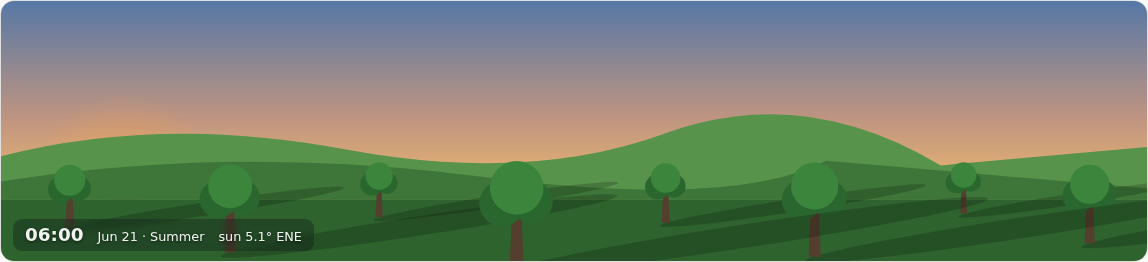
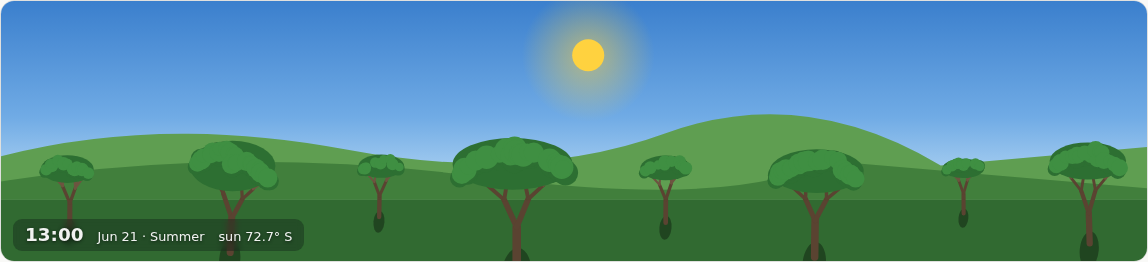
Grow the scenic trees from a recursive branch structure
The trees were a trunk with three canopy circles stuck on top. They now
grow from a recursive generator: a trunk forks into limbs, limbs into
twigs, each fork shorter and narrower than its parent, with a seeded PRNG
per tree so every tree has its own shape and keeps it across renders.

Two details keep the result reading as a tree rather than a shrub. Each
child branch angle is pulled back toward vertical, so successive forks do
not drift ever more horizontal. And foliage is a soft crown body with lit
and shaded blobs at the twig tips layered over it, so the canopy is one
mass with texture instead of scattered dots.

Winter gains the most: bare limbs now show real branch structure, with
snow settling along the outer twigs. Palms keep their own leaning stem
and crown of fronds, since palms do not fork.

Skeletons are geometry only, so they are built once per tree and cached
rather than regenerated on every frame. A full re-render of the panel
plus all three day charts measures ~10ms, so scrubbing the time slider
stays smooth.

Adds three tests for the generator (determinism, branch count by
distance, crowns taller than wide) for 37 total.

Claude-Session: https://claude.ai/code/session_01N37uwx9vE3AetuJg14AkaL

diff --git a/js/scene.js b/js/scene.js
@@ -98,6 +98,81 @@ const TREES = [
   { x: 0.95, ground: 228, scale: 0.98 },
 ].sort((a, b) => a.ground - b.ground);
 
+const SCENE_W = 1000;
+
+/** Small deterministic PRNG, so every tree keeps its shape across renders. */
+function mulberry32(seed) {
+  return function next() {
+    seed = (seed + 0x6d2b79f5) | 0;
+    let t = Math.imul(seed ^ (seed >>> 15), 1 | seed);
+    t = (t + Math.imul(t ^ (t >>> 7), 61 | t)) ^ t;
+    return ((t ^ (t >>> 14)) >>> 0) / 4294967296;
+  };
+}
+
+/**
+ * Grow a branch and its children recursively. Angles are degrees from
+ * vertical; each fork narrows and shortens, which is what makes the
+ * silhouette read as a tree rather than a stick.
+ */
+function grow(x, y, angle, len, width, depth, rng, out) {
+  const rad = angle * RAD;
+  const x2 = x + Math.sin(rad) * len;
+  const y2 = y - Math.cos(rad) * len;
+  out.segments.push({ x1: x, y1: y, x2, y2, w: width, depth });
+  out.top = Math.min(out.top, y2);
+  out.left = Math.min(out.left, x2);
+  out.right = Math.max(out.right, x2);
+
+  if (depth <= 0) {
+    out.tips.push({ x: x2, y: y2 });
+    return;
+  }
+  // Two forks most of the way up, occasionally three near the crown.
+  const forks = depth <= 2 && rng() < 0.4 ? 3 : 2;
+  const spread = 16 + rng() * 11;
+  for (let i = 0; i < forks; i++) {
+    const offset = (i / (forks - 1) - 0.5) * 2;   // -1 .. 1
+    // The 0.78 pulls each child back toward vertical, so successive forks
+    // do not drift ever more horizontal and leave a flat, shrubby crown.
+    const childAngle = angle * 0.78 + offset * spread + (rng() - 0.5) * 9;
+    const childLen = len * (0.64 + rng() * 0.14);
+    grow(x2, y2, childAngle, childLen, width * 0.67, depth - 1, rng, out);
+  }
+}
+
+/**
+ * Branch geometry for one tree. Depends only on the tree's position and
+ * scale, never on season or time, so it is computed once and reused.
+ */
+export function buildTreeSkeleton(tree) {
+  const x = tree.x * SCENE_W;
+  const y = tree.ground;
+  const rng = mulberry32(Math.round(tree.x * 9973) + Math.round(tree.ground));
+  const out = { segments: [], tips: [], top: y, left: x, right: x };
+  const depth = tree.scale < 0.8 ? 3 : 4;
+  grow(x, y, (rng() - 0.5) * 5, 27 * tree.scale, Math.max(2.2, 5.6 * tree.scale), depth, rng, out);
+  const tx = out.tips.map((p) => p.x);
+  const ty = out.tips.map((p) => p.y);
+  const crown = {
+    cx: (Math.min(...tx) + Math.max(...tx)) / 2,
+    cy: (Math.min(...ty) + Math.max(...ty)) / 2,
+    rx: (Math.max(...tx) - Math.min(...tx)) / 2,
+    ry: (Math.max(...ty) - Math.min(...ty)) / 2,
+  };
+  return { ...out, x, y, crown, height: y - out.top, halfWidth: (out.right - out.left) / 2 };
+}
+
+const SKELETONS = new WeakMap();
+function skeletonFor(tree) {
+  let sk = SKELETONS.get(tree);
+  if (!sk) {
+    sk = buildTreeSkeleton(tree);
+    SKELETONS.set(tree, sk);
+  }
+  return sk;
+}
+
 /**
  * Shadow cast by an object of `height` on level ground.
  *
@@ -127,13 +202,9 @@ export function shadowFor(elevationDeg, azimuthDeg, facing, height, maxLen = 7) 
 /** One tree, plus its cast shadow, as SVG markup. */
 function treeSVG(tree, W, season, landFactor, dayness, sun) {
   const t = SEASON_TREE[season];
-  const x = tree.x * W;
-  const y = tree.ground;
-  const h = 48 * tree.scale;                 // trunk height
-  const r = 19 * tree.scale;                 // canopy radius
-  const tw = Math.max(2.4, 4.6 * tree.scale);
-  const trunk = darken('#5a4331', landFactor);
-  const topY = y - h;
+  const sk = skeletonFor(tree);
+  const { x, y, height: h } = sk;
+  const scale = tree.scale;
 
   // Shadow first, so the tree sits on top of it.
   let shadow = '';
@@ -142,8 +213,8 @@ function treeSVG(tree, W, season, landFactor, dayness, sun) {
     const span = Math.hypot(sh.dx, sh.dy);
     const cx = x + sh.dx / 2;
     const cy = y + sh.dy / 2 + 2;
-    const rx = span / 2 + tw * 1.6;
-    const ry = Math.max(3.4, r * 0.4);
+    const rx = span / 2 + sk.halfWidth * 0.45;
+    const ry = Math.max(3.4, sk.halfWidth * 0.3);
     const ang = (Math.atan2(sh.dy, sh.dx) * DEG).toFixed(1);
     // Long, low-sun shadows are diffuse; midday shadows are tight and darker.
     const op = (0.34 * dayness * (1 - 0.4 * Math.min(1, span / (h * 5)))).toFixed(2);
@@ -151,59 +222,84 @@ function treeSVG(tree, W, season, landFactor, dayness, sun) {
       + ` transform="rotate(${ang} ${cx.toFixed(1)} ${cy.toFixed(1)})" fill="#000" opacity="${op}"/>`;
   }
 
-  const trunkMark = `<path d="M${(x - tw).toFixed(1)},${y} L${(x - tw * 0.55).toFixed(1)},${topY.toFixed(1)} `
-    + `L${(x + tw * 0.55).toFixed(1)},${topY.toFixed(1)} L${(x + tw).toFixed(1)},${y} Z" fill="${trunk}"/>`;
-
-  let crown = '';
   if (t.palm) {
+    // Palms do not fork, so they get a leaning stem and a crown of fronds.
+    const trunkCol = darken('#6b5238', landFactor);
     const frond = darken(t.canopy, landFactor);
     const shade = darken(t.shade, landFactor);
-    crown = [-1, 1].flatMap((dir) => [0.15, 0.55, 1.0].map((lift, i) => {
-      const ex = x + dir * r * (1.15 - lift * 0.25);
-      const ey = topY - lift * r * 0.75 + r * 0.28;
-      return `<path d="M${x.toFixed(1)},${topY.toFixed(1)} Q${(x + dir * r * 0.7).toFixed(1)},`
-        + `${(topY - r * 0.55 - lift * 6).toFixed(1)} ${ex.toFixed(1)},${ey.toFixed(1)}"`
-        + ` stroke="${i === 1 ? shade : frond}" stroke-width="${(3.4 * tree.scale).toFixed(1)}"`
-        + ` fill="none" stroke-linecap="round"/>`;
-    })).join('');
-  } else if (t.canopy) {
+    const topY = y - h * 0.92;
+    const lean = h * 0.1;
+    const stem = `<path d="M${(x - 3 * scale).toFixed(1)},${y} Q${(x - 1).toFixed(1)},`
+      + `${(y - h * 0.5).toFixed(1)} ${(x + lean).toFixed(1)},${topY.toFixed(1)}"`
+      + ` stroke="${trunkCol}" stroke-width="${(5 * scale).toFixed(1)}" fill="none" stroke-linecap="round"/>`;
+    const span = h * 0.5;
+    const fronds = [-1, -0.62, -0.26, 0.26, 0.62, 1].map((dir, i) => {
+      const tipX = x + lean + dir * span;
+      const tipY = topY + Math.abs(dir) * span * 0.5 + span * 0.12;
+      const ctlX = x + lean + dir * span * 0.5;
+      const ctlY = topY - span * 0.42;
+      return `<path d="M${(x + lean).toFixed(1)},${topY.toFixed(1)} Q${ctlX.toFixed(1)},${ctlY.toFixed(1)} `
+        + `${tipX.toFixed(1)},${tipY.toFixed(1)}" stroke="${i % 2 ? shade : frond}"`
+        + ` stroke-width="${(4 * scale).toFixed(1)}" fill="none" stroke-linecap="round"/>`;
+    }).join('');
+    return shadow + stem + fronds;
+  }
+
+  // Branches: thicker limbs darker, fine twigs a shade lighter.
+  const limb = darken('#5a4331', landFactor);
+  const twig = darken('#6d5540', landFactor);
+  const branches = sk.segments.map((sg) =>
+    `<line x1="${sg.x1.toFixed(1)}" y1="${sg.y1.toFixed(1)}" x2="${sg.x2.toFixed(1)}" y2="${sg.y2.toFixed(1)}"`
+    + ` stroke="${sg.depth >= 2 ? limb : twig}" stroke-width="${sg.w.toFixed(1)}" stroke-linecap="round"/>`
+  ).join('');
+
+  let crown = '';
+  let extra = '';
+  if (t.canopy) {
     const c = darken(t.canopy, landFactor);
     const sd = darken(t.shade, landFactor);
-    crown = `<circle cx="${(x - r * 0.5).toFixed(1)}" cy="${(topY + r * 0.3).toFixed(1)}" r="${(r * 0.78).toFixed(1)}" fill="${sd}"/>`
-      + `<circle cx="${(x + r * 0.52).toFixed(1)}" cy="${(topY + r * 0.24).toFixed(1)}" r="${(r * 0.72).toFixed(1)}" fill="${sd}"/>`
-      + `<circle cx="${x.toFixed(1)}" cy="${(topY - r * 0.24).toFixed(1)}" r="${(r * 0.92).toFixed(1)}" fill="${c}"/>`;
+    // Three passes: a soft crown body, then shaded blobs, then lit blobs, so
+    // the foliage reads as one mass with texture instead of scattered dots.
+    const cr = sk.crown;
+    crown = `<ellipse cx="${cr.cx.toFixed(1)}" cy="${(cr.cy + 1).toFixed(1)}"`
+      + ` rx="${(cr.rx + 6 * scale).toFixed(1)}" ry="${(cr.ry + 8.5 * scale).toFixed(1)}" fill="${darken(t.shade, landFactor)}"/>`;
+    crown += sk.tips.map((tip, i) => {
+      const rr = (6.2 + (i % 3) * 1.0) * scale;
+      return `<circle cx="${(tip.x + (i % 2 ? 1.5 : -1.5) * scale).toFixed(1)}" cy="${(tip.y + 1.6 * scale).toFixed(1)}"`
+        + ` r="${rr.toFixed(1)}" fill="${sd}"/>`;
+    }).join('')
+      + sk.tips.map((tip, i) => {
+        const rr = (5.6 + ((i + 1) % 3) * 1.0) * scale;
+        return `<circle cx="${tip.x.toFixed(1)}" cy="${(tip.y - 1.2 * scale).toFixed(1)}"`
+          + ` r="${rr.toFixed(1)}" fill="${c}"/>`;
+      }).join('');
     if (t.blossom) {
       const b = darken(t.blossom, landFactor);
-      crown += [[-0.55, -0.3], [0.4, -0.62], [0.62, 0.1], [-0.15, 0.42], [0.05, -0.15]]
-        .map(([bx, by]) => `<circle cx="${(x + bx * r).toFixed(1)}" cy="${(topY + by * r).toFixed(1)}" r="${(2.1 * tree.scale).toFixed(1)}" fill="${b}"/>`)
-        .join('');
+      extra = sk.tips.filter((_, i) => i % 3 === 0).map((tip) =>
+        `<circle cx="${tip.x.toFixed(1)}" cy="${(tip.y - 2.4 * scale).toFixed(1)}" r="${(2.3 * scale).toFixed(1)}" fill="${b}"/>`
+      ).join('');
     }
   } else {
-    // Winter: bare branches, with snow catching on the upper limbs.
-    const br = darken('#4c3928', landFactor);
-    const limbs = [[-1, 0.95], [1, 0.9], [-0.62, 1.25], [0.66, 1.2]]
-      .map(([dir, up]) => `<line x1="${x.toFixed(1)}" y1="${(topY + r * 0.34).toFixed(1)}" `
-        + `x2="${(x + dir * r * 0.92).toFixed(1)}" y2="${(topY - r * (up - 0.62)).toFixed(1)}" `
-        + `stroke="${br}" stroke-width="${(2.2 * tree.scale).toFixed(1)}" stroke-linecap="round"/>`)
-      .join('');
-    const snow = darken(t.snow, Math.min(1, landFactor + 0.12));
-    crown = limbs
-      + `<line x1="${(x - r * 0.8).toFixed(1)}" y1="${(topY - r * 0.22).toFixed(1)}" `
-      + `x2="${(x + r * 0.8).toFixed(1)}" y2="${(topY - r * 0.26).toFixed(1)}" `
-      + `stroke="${snow}" stroke-width="${(2 * tree.scale).toFixed(1)}" stroke-linecap="round" opacity="0.9"/>`;
+    // Winter: bare limbs, with snow settled along the upper twigs.
+    const snow = darken(t.snow, Math.min(1, landFactor + 0.14));
+    extra = sk.segments.filter((sg) => sg.depth <= 1).map((sg) =>
+      `<line x1="${sg.x1.toFixed(1)}" y1="${(sg.y1 - sg.w * 0.6).toFixed(1)}"`
+      + ` x2="${sg.x2.toFixed(1)}" y2="${(sg.y2 - sg.w * 0.6).toFixed(1)}"`
+      + ` stroke="${snow}" stroke-width="${(sg.w * 0.7).toFixed(1)}" stroke-linecap="round" opacity="0.85"/>`
+    ).join('');
   }
 
   // A little seasonal ground detail at the base.
   let litter = '';
   if (t.litter) {
     const l = darken(t.litter, landFactor);
-    litter = [[-1.5, 5], [1.2, 8], [2.4, 3], [-2.6, 9]]
-      .map(([lx, ly]) => `<ellipse cx="${(x + lx * r * 0.42).toFixed(1)}" cy="${(y + ly).toFixed(1)}" `
-        + `rx="${(2.6 * tree.scale).toFixed(1)}" ry="${(1.3 * tree.scale).toFixed(1)}" fill="${l}" opacity="0.75"/>`)
+    litter = [[-1.5, 5], [1.2, 8], [2.4, 3], [-2.6, 9], [0.6, 11]]
+      .map(([lx, ly]) => `<ellipse cx="${(x + lx * sk.halfWidth * 0.24).toFixed(1)}" cy="${(y + ly).toFixed(1)}" `
+        + `rx="${(2.6 * scale).toFixed(1)}" ry="${(1.3 * scale).toFixed(1)}" fill="${l}" opacity="0.75"/>`)
       .join('');
   }
 
-  return shadow + trunkMark + crown + litter;
+  return shadow + branches + crown + extra + litter;
 }
 
 /* ---------- deterministic stars ---------- */
@@ -227,7 +323,7 @@ const STARS = (() => {
  *           sunriseLabel, sunsetLabel }
  */
 export function renderScene(container, model) {
-  const W = 1000;
+  const W = SCENE_W;
   const H = 260;
   const horizonY = 190;
 

diff --git a/README.md b/README.md
@@ -38,10 +38,12 @@ No accounts, no build step, no dependencies: open one HTML file and go.
 - **✨ Scenic mode** — an ambient sky panel whose colors track the sun through
   night, twilight, golden hour and day, with a landscape that changes with the
   season at your hemisphere (snow in winter, autumn golds, tropical greens…).
-  Trees on the hillside carry the season — blossom in spring, full green in
+  Trees on the hillside are grown from a recursive branching structure — a
+  trunk forking into limbs and twigs, different for every tree but stable
+  across renders — and they carry the season: blossom in spring, full green in
   summer, gold with fallen leaves in autumn, bare snow-dusted branches in
-  winter, palms in the tropics — and **cast real shadows**: length is the true
-  `height / tan(elevation)`, and they sweep from long and westward at sunrise,
+  winter, palms in the tropics. They also **cast real shadows**: length is the
+  true `height / tan(elevation)`, sweeping from long and westward at sunrise,
   to a tight pool at solar noon, to long and eastward at sunset. Your location,
   theme and scenic preference are remembered between visits.
 
@@ -107,7 +109,7 @@ tests/            node:test suite for the astronomy math
 node --test tests/*.mjs
 ```
 
-34 tests cover Julian-day epochs, solstice/equinox declinations, the NREL SPA
+37 tests cover Julian-day epochs, solstice/equinox declinations, the NREL SPA
 reference position, polar day/night, day-length symmetry, air mass and
 clear-sky insolation sanity checks, the scenic sky palette and hemisphere
 seasons, and the comparison schematic's geometry — including a cross-check
@@ -118,4 +120,6 @@ version string is well formed and the header badge element exists. Six cover
 the scenic shadow geometry: length equal to `height / tan(elevation)`, the
 morning/afternoon mirror about noon, the foreshortened toward-viewer shadow at
 solar noon, the hemisphere flip, the long-shadow cap, and no shadow at all once
-the sun is below the horizon.
+the sun is below the horizon. Three more cover the branch generator: that it
+is deterministic, that bigger trees carry more branches than distant ones, and
+that a crown stays taller than it is wide.
